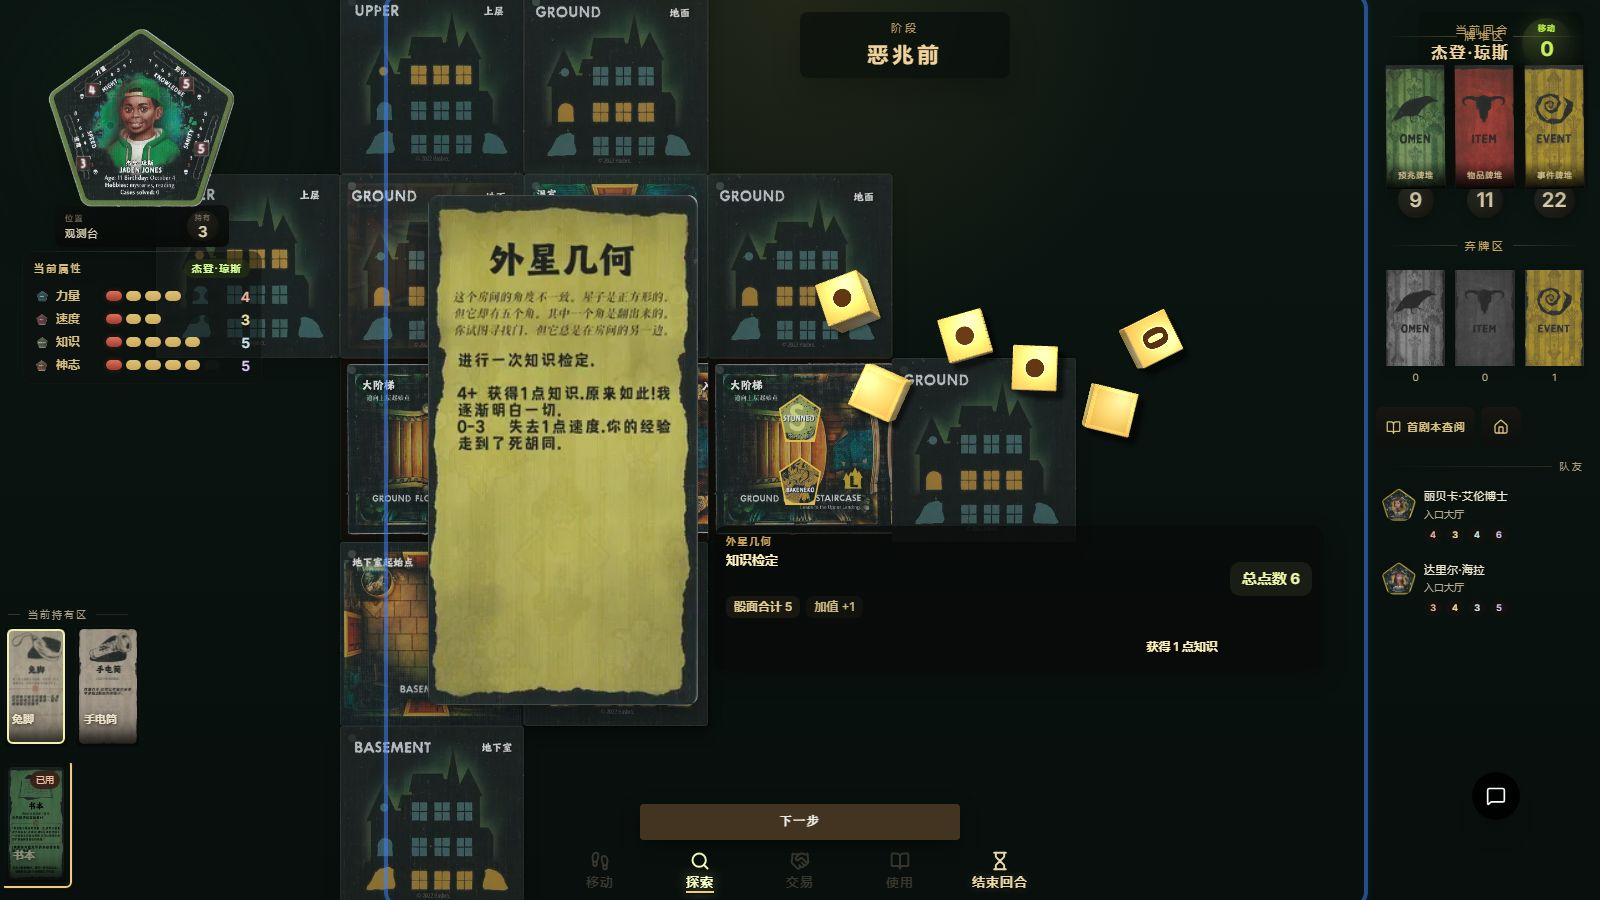
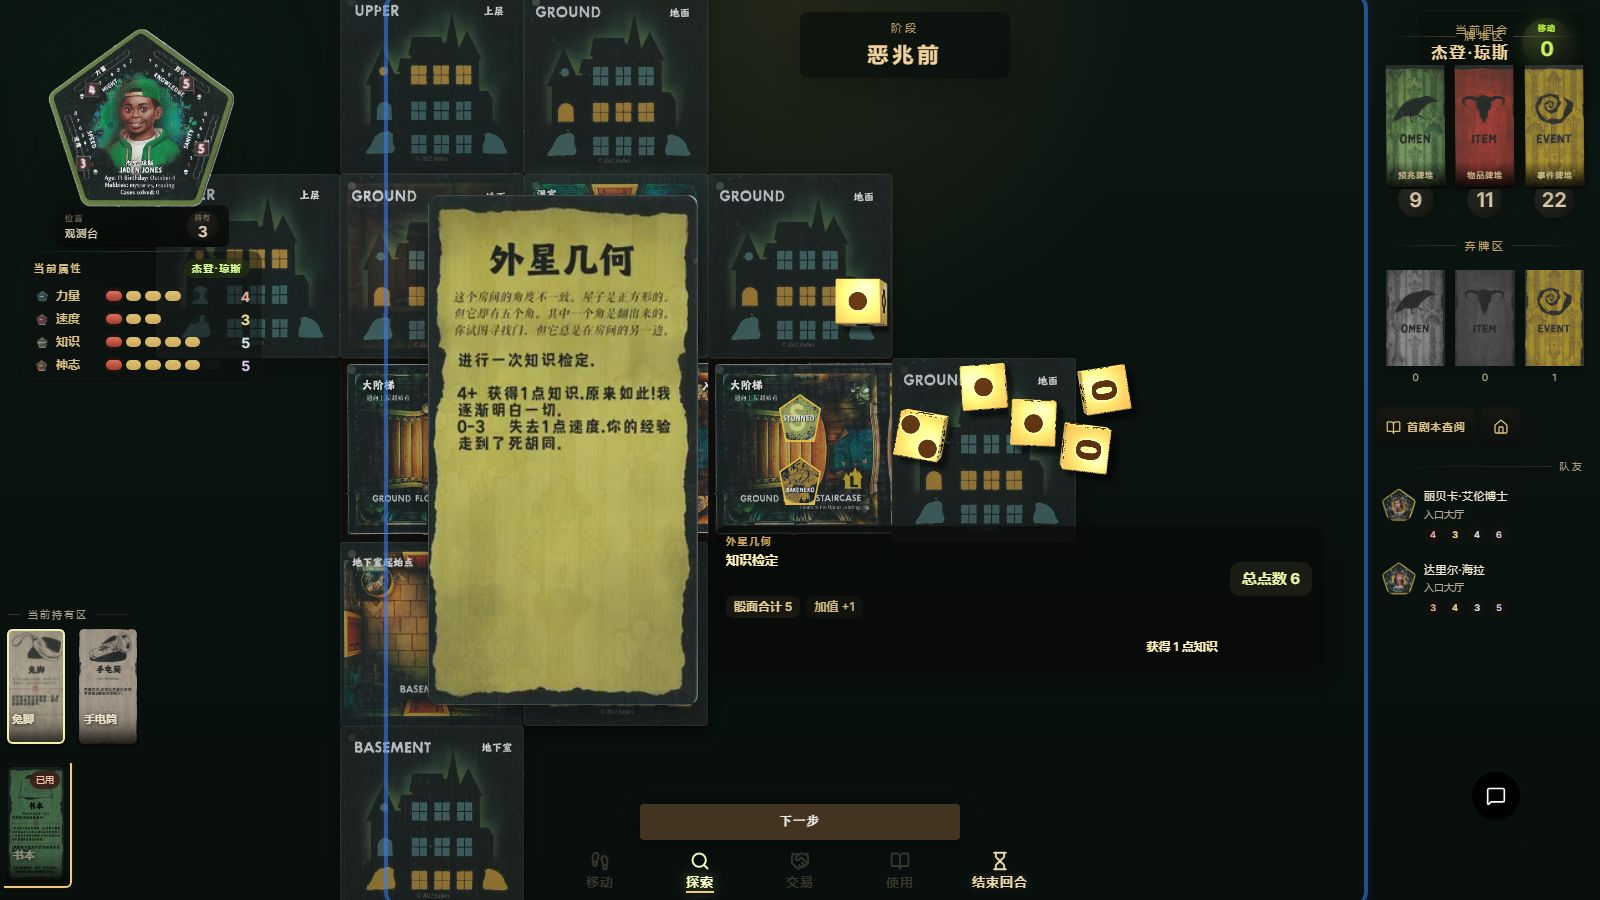
fix(boardgame): 收口物理骰验收、奇达痕指引与 Android 包名
- 修正山屋骰子物理面到 0/1/2 规则值的可见诊断，避免直接复用业务投掷结果
- 为山屋自定义骰所有可见 d6 面提供有效规则面贴图，并更新教程验收截图证据
- 调整奇达痕地图指引箭头截断和点击目标坐标，E2E 改用真实目标点命中
- 让骰子物理状态暴露当前朝上值，并在投掷后同步目标值用于验收判断
- 将 Android 默认 applicationId 和应用名切回正式包名，debug 构建改用 .debug 后缀
- 补充 E2E 验收规则，禁止只贴目标面或用业务结果冒充可见骰面诊断

Changed region(s): [[0.5, 0.28, 0.75, 0.5289]]

diff --git a/src/games/qidahen/Board.tsx b/src/games/qidahen/Board.tsx
@@ -137,6 +137,39 @@ const QIDAHEN_MAP_MAX_ZOOM = 2.25;
 
 type QidahenGuidePoint = { x: number; y: number };
 
+const buildQidahenGuideDisplayPoints = (
+    points: QidahenGuidePoint[],
+    trimLength: number,
+): QidahenGuidePoint[] => {
+    if (points.length < 2) {
+        return points;
+    }
+    const result = points.map((point) => ({ ...point }));
+    let remainingTrim = trimLength;
+    for (let index = result.length - 1; index > 0 && remainingTrim > 0; index -= 1) {
+        const current = result[index];
+        const previous = result[index - 1];
+        const dx = current.x - previous.x;
+        const dy = current.y - previous.y;
+        const segmentLength = Math.hypot(dx, dy);
+        if (segmentLength <= 0) {
+            result.pop();
+            continue;
+        }
+        if (segmentLength > remainingTrim) {
+            const ratio = (segmentLength - remainingTrim) / segmentLength;
+            result[index] = {
+                x: previous.x + dx * ratio,
+                y: previous.y + dy * ratio,
+            };
+            return result;
+        }
+        remainingTrim -= segmentLength;
+        result.pop();
+    }
+    return result.length >= 2 ? result : points;
+};
+
 const buildQidahenGuideArrowHeadPath = (
     points: QidahenGuidePoint[],
     length: number,
@@ -154,9 +187,10 @@ const buildQidahenGuideArrowHeadPath = (
     const normalX = -unitY;
     const normalY = unitX;
     const center = {
-        x: tip.x - unitX * (length * 0.42),
-        y: tip.y - unitY * (length * 0.42),
+        x: tip.x - unitX * (length * 0.78),
+        y: tip.y - unitY * (length * 0.78),
     };
+    const arrowTip = { x: center.x + unitX * (length * 0.78), y: center.y + unitY * (length * 0.78) };
     const leftShoulder = {
         x: center.x + normalX * width + unitX * (length * 0.08),
         y: center.y + normalY * width + unitY * (length * 0.08),
@@ -166,20 +200,20 @@ const buildQidahenGuideArrowHeadPath = (
         y: center.y - normalY * width + unitY * (length * 0.08),
     };
     const leftTail = {
-        x: center.x + normalX * (width * 0.36) - unitX * (length * 0.48),
-        y: center.y + normalY * (width * 0.36) - unitY * (length * 0.48),
+        x: center.x + normalX * (width * 0.36) - unitX * (length * 0.46),
+        y: center.y + normalY * (width * 0.36) - unitY * (length * 0.46),
     };
     const rightTail = {
-        x: center.x - normalX * (width * 0.36) - unitX * (length * 0.48),
-        y: center.y - normalY * (width * 0.36) - unitY * (length * 0.48),
+        x: center.x - normalX * (width * 0.36) - unitX * (length * 0.46),
+        y: center.y - normalY * (width * 0.36) - unitY * (length * 0.46),
     };
     const tail = {
-        x: center.x - unitX * (length * 0.52),
-        y: center.y - unitY * (length * 0.52),
+        x: center.x - unitX * (length * 0.5),
+        y: center.y - unitY * (length * 0.5),
     };
     return [
         `M ${leftTail.x} ${leftTail.y}`,
-        `Q ${leftShoulder.x} ${leftShoulder.y} ${tip.x} ${tip.y}`,
+        `Q ${leftShoulder.x} ${leftShoulder.y} ${arrowTip.x} ${arrowTip.y}`,
         `Q ${rightShoulder.x} ${rightShoulder.y} ${rightTail.x} ${rightTail.y}`,
         `Q ${tail.x} ${tail.y} ${leftTail.x} ${leftTail.y}`,
         'Z',
@@ -1357,7 +1391,7 @@ const MapToken: React.FC<{
     const pendingCommittedTone = pendingCommittedSelected
         ? {
             opacity: 1,
-            boxShadow: '0 0 0 3px rgba(255, 232, 158, 0.98), 0 0 0 7px rgba(77, 157, 78, 0.54), 0 5px 14px rgba(22, 17, 10, 0.42)',
+            boxShadow: '0 0 0 4px rgba(77, 157, 78, 0.78), 0 5px 14px rgba(22, 17, 10, 0.42)',
             filter: 'brightness(1.08) saturate(1.08)',
         }
         : pendingCommittedSelectable
@@ -2100,10 +2134,17 @@ const MapSceneLayer: React.FC<{
                                 if (pathPoints.length < 2) {
                                     return null;
                                 }
-                                const pointLabel = pathPoints.map((point) => `${point.x},${point.y}`).join(' ');
-                                const arrowHeadPath = buildQidahenGuideArrowHeadPath(pathPoints, activeCandidate ? 36 : 31, activeCandidate ? 13 : 11);
+                                const displayPoints = buildQidahenGuideDisplayPoints(pathPoints, activeCandidate ? 22 : 18);
+                                const pointLabel = displayPoints.map((point) => `${point.x},${point.y}`).join(' ');
+                                const targetPoint = pathPoints[pathPoints.length - 1];
+                                const arrowHeadPath = buildQidahenGuideArrowHeadPath(pathPoints, activeCandidate ? 22 : 18, activeCandidate ? 8.4 : 6.8);
                                 return (
-                                    <g key={candidate.id} data-testid={`qidahen-map-guide-route-${candidate.targetRegionId}`}>
+                                    <g
+                                        key={candidate.id}
+                                        data-testid={`qidahen-map-guide-route-${candidate.targetRegionId}`}
+                                        data-guide-target-x={targetPoint.x}
+                                        data-guide-target-y={targetPoint.y}
+                                    >
                                         <polyline
                                             points={pointLabel}
                                             fill="none"

diff --git a/src/games/betrayal/Board.tsx b/src/games/betrayal/Board.tsx
@@ -1324,6 +1324,15 @@ const BETRAYAL_HOUSE_RULE_VALUE_TO_D6_FACE: Record<0 | 1 | 2, number> = {
     2: 5,
 };
 
+const BETRAYAL_HOUSE_D6_FACE_TO_RULE_VALUE: Record<number, 0 | 1 | 2> = {
+    1: 0,
+    2: 0,
+    3: 1,
+    4: 1,
+    5: 2,
+    6: 2,
+};
+
 const resolveBetrayalHouseD6Face = (pip: number): number => {
     if (pip === 0 || pip === 1 || pip === 2) {
         return BETRAYAL_HOUSE_RULE_VALUE_TO_D6_FACE[pip];
@@ -1382,40 +1391,30 @@ function createBetrayalHouseDieFaceCanvas(value: 0 | 1 | 2): HTMLCanvasElement {
     return canvas;
 }
 
-function createBetrayalHouseDieBlankFaceCanvas(): HTMLCanvasElement {
-    const canvas = document.createElement('canvas');
-    canvas.width = 256;
-    canvas.height = 256;
-    const ctx = canvas.getContext('2d')!;
-    paintBetrayalHouseDieFaceBase(ctx);
-    ctx.fillStyle = 'rgba(77,42,16,0.12)';
-    ctx.fillRect(58, 58, 140, 140);
-    return canvas;
-}
-
 const normalizeBetrayalHouseRuleValue = (pip: number): 0 | 1 | 2 => (
     pip === 0 || pip === 1 || pip === 2 ? pip : 0
 );
 
 function createBetrayalHouseDiceSkin(value: 0 | 1 | 2): DiceBoxDieSkin {
-    const face = createBetrayalHouseDieFaceCanvas(value);
-    const blank = createBetrayalHouseDieBlankFaceCanvas();
-    const targetPhysicalFace = resolveBetrayalHouseD6Face(value);
-    const faceCanvases: Record<number, HTMLCanvasElement> = {
-        1: blank,
-        2: blank,
-        3: blank,
-        4: blank,
-        5: blank,
-        6: blank,
+    const ruleFaceCanvases: Record<0 | 1 | 2, HTMLCanvasElement> = {
+        0: createBetrayalHouseDieFaceCanvas(0),
+        1: createBetrayalHouseDieFaceCanvas(1),
+        2: createBetrayalHouseDieFaceCanvas(2),
     };
-    faceCanvases[targetPhysicalFace] = face;
+    const faceCanvases: Record<number, HTMLCanvasElement> = {
+        1: ruleFaceCanvases[0],
+        2: ruleFaceCanvases[0],
+        3: ruleFaceCanvases[1],
+        4: ruleFaceCanvases[1],
+        5: ruleFaceCanvases[2],
+        6: ruleFaceCanvases[2],
+    };
 
     return {
         id: `${BETRAYAL_HOUSE_DICE_FACE_SYSTEM}-${value}`,
-        edgeCanvas: blank,
+        edgeCanvas: ruleFaceCanvases[value],
         faceCanvases,
-        topFaceCanvas: face,
+        topFaceCanvas: ruleFaceCanvases[value],
     };
 }
 
@@ -1450,6 +1449,13 @@ function BetrayalHouseDice3DGroup({
     );
     const [hasPhysicsState, setHasPhysicsState] = React.useState(false);
     const [physicsStates, setPhysicsStates] = React.useState<DicePhysicsState[]>([]);
+    const visibleRuleValues = React.useMemo(
+        () => roll.dice.map((pip, index) => {
+            const physicalValue = physicsStates[index]?.value;
+            return physicalValue ? BETRAYAL_HOUSE_D6_FACE_TO_RULE_VALUE[physicalValue] ?? normalizeBetrayalHouseRuleValue(pip) : normalizeBetrayalHouseRuleValue(pip);
+        }),
+        [physicsStates, roll.dice],
+    );
     const selectableDiceTargets = React.useMemo(
         () => physicsStates
             .map((state) => ({
@@ -1474,7 +1480,7 @@ function BetrayalHouseDice3DGroup({
             data-dice-physics-ready={hasPhysicsState ? 'true' : 'false'}
             data-dice-count={roll.dice.length}
             data-dice-rule-values={roll.dice.join(',')}
-            data-dice-visible-rule-values={roll.dice.join(',')}
+            data-dice-visible-rule-values={visibleRuleValues.join(',')}
             data-dice-rule-subtotal={roll.dice.reduce((sum, pip) => sum + pip, 0)}
             data-dice-physical-d6-faces={physicalD6Faces.join(',')}
             className={`relative min-h-0 overflow-visible rounded-[14px] bg-transparent ${className}`}

diff --git a/e2e/qidahen-basic-flow.e2e.ts b/e2e/qidahen-basic-flow.e2e.ts
@@ -237,19 +237,19 @@ const clickGuidedMapTarget = async (
     }
     await page.evaluate((guidedTargetRegionId) => {
         const canvas = document.querySelector<HTMLCanvasElement>('[data-testid="qidahen-map-hitmap-canvas"]');
-        const route = document.querySelector<SVGPolylineElement>(`[data-testid="qidahen-map-guide-route-${guidedTargetRegionId}"] polyline`);
+        const routeGroup = document.querySelector<SVGGElement>(`[data-testid="qidahen-map-guide-route-${guidedTargetRegionId}"]`);
         const overlay = document.querySelector<SVGSVGElement>('[data-testid="qidahen-map-overlay"]');
-        if (!canvas || !route || !overlay) {
+        if (!canvas || !routeGroup || !overlay) {
             throw new Error(`missing guided map target for ${guidedTargetRegionId}`);
         }
-        const points = route.getAttribute('points')?.trim().split(/\s+/) ?? [];
-        const lastPoint = points.at(-1)?.split(',').map(Number) ?? [];
-        if (lastPoint.length !== 2 || !Number.isFinite(lastPoint[0]) || !Number.isFinite(lastPoint[1])) {
-            throw new Error(`invalid guided map route points for ${guidedTargetRegionId}`);
+        const targetX = Number(routeGroup.dataset.guideTargetX);
+        const targetY = Number(routeGroup.dataset.guideTargetY);
+        if (!Number.isFinite(targetX) || !Number.isFinite(targetY)) {
+            throw new Error(`invalid guided map target point for ${guidedTargetRegionId}`);
         }
         const svgPoint = overlay.createSVGPoint();
-        svgPoint.x = lastPoint[0];
-        svgPoint.y = lastPoint[1];
+        svgPoint.x = targetX;
+        svgPoint.y = targetY;
         const screenPoint = svgPoint.matrixTransform(overlay.getScreenCTM()!);
         const clientX = screenPoint.x;
         const clientY = screenPoint.y;

diff --git a/src/lib/dice-box-threejs/engine.ts b/src/lib/dice-box-threejs/engine.ts
@@ -204,6 +204,7 @@ export class DiceBoxThreeEngine {
         }
         this.applyPrimarySkinToDicePreset();
         await this.box.roll(createNotation(values));
+        this.applyValues(values, undefined, true);
         this.applyCurrentSkins();
     }
 
@@ -262,6 +263,7 @@ export class DiceBoxThreeEngine {
             layout,
             motion,
             settled,
+            value: readDieValue(this.box.diceList[index]),
         };
     }
 
@@ -316,6 +318,8 @@ export class DiceBoxThreeEngine {
         const width = Math.max(40, maxX - minX);
         const height = Math.max(40, maxY - minY);
 
+        const layoutYaw = SETTLED_DICE_LAYOUT[index]?.yaw;
+
         return {
             id,
             x: (minX + maxX) / 2,
@@ -328,7 +332,7 @@ export class DiceBoxThreeEngine {
             maxY,
             rotateX: die.rotation.x,
             rotateY: die.rotation.y,
-            rotateZ: die.rotation.z,
+            rotateZ: layoutYaw ?? die.rotation.z,
         };
     }
 

diff --git a/src/games/qidahen/__tests__/Board.test.ts b/src/games/qidahen/__tests__/Board.test.ts
@@ -464,7 +464,10 @@ describe('Qidahen Board 结构门禁', () => {
         expect(boardSource).toContain('onPointerUp={handlePointerUp}');
         expect(boardSource).toContain('viewport={mapViewport}');
         expect(boardSource).toContain('onViewportChange={setMapViewport}');
+        expect(boardSource).toContain('const buildQidahenGuideDisplayPoints = (');
         expect(boardSource).toContain('const buildQidahenGuideArrowHeadPath = (');
+        expect(boardSource).toContain('data-guide-target-x={targetPoint.x}');
+        expect(boardSource).toContain('data-guide-target-y={targetPoint.y}');
         expect(boardSource).toContain('data-testid={`qidahen-map-guide-arrow-head-${candidate.targetRegionId}`}');
         expect(boardSource).not.toContain('markerMid={');
         expect(boardSource).not.toContain('markerEnd={');

diff --git a/src/lib/dice-physics/types.ts b/src/lib/dice-physics/types.ts
@@ -27,6 +27,7 @@ export interface DicePhysicsState {
     layout: DicePhysicsProjectedLayout;
     motion: DicePhysicsMotionSnapshot;
     settled: boolean;
+    value: number | null;
 }
 
 export type DicePhysicsRendererMode = 'debug-visible' | 'physics-only';

diff --git a/android/app/src/androidTest/java/top/easyboardgame/app/ExampleInstrumentedTest.java b/android/app/src/androidTest/java/top/easyboardgame/app/ExampleInstrumentedTest.java
@@ -21,6 +21,6 @@ public class ExampleInstrumentedTest {
         // Context of the app under test.
         Context appContext = InstrumentationRegistry.getInstrumentation().getTargetContext();
 
-        assertEquals("top.easyboardgame.app.debug", appContext.getPackageName());
+        assertEquals("top.easyboardgame.app", appContext.getPackageName());
     }
 }
